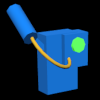
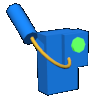
holding ball in both hands

diff --git a/js/antbob.js b/js/antbob.js
@@ -188,7 +188,7 @@ export default class AntBob {
 
 	updateInventorySlot(slot) {
 		if (this.story.hasInventoryItem(slot))
-			this.loadItem(this.story.state.inventory[slot]);
+			this.loadItem(slot, this.story.state.inventory[slot]);
 		else
 			this.unloadItem(slot);
 	}
@@ -268,10 +268,14 @@ export default class AntBob {
 		this.state.update(event);
 	}
 
+	hasItemInBothHands() {
+		return this.story.hasItemInBothHands();
+	}
+
 	dropItem(slot) {
 		const item = this.story.removeInventoryItem(slot);
 		if (item) {
-			const mesh = this.unloadItem(item.slot);
+			const mesh = this.unloadItem(slot);
 			const newMesh = mesh.clone();
 			const pos = this.dummy.position.clone();
 			pos.add(this.direction);
@@ -302,52 +306,48 @@ export default class AntBob {
 		}
 	}
 
-	loadItem(data) {
-		let slot = data.slot;
-
+	async loadItem(slot, data) {
 		this.unloadItem(slot);
+
+		if (!data) return;
 
 		const boneName = SLOT_BONES[slot];
 		const bone = this.model.getObjectByName(boneName);
 
-		//console.log(this.model);
-		this.resources.load(
-			data.model,
-			function (obj) {
-				let wrapper = null;
-				if (data.itemWrapper) {
-					let wrapperContent = obj.getObjectByName(data.itemWrapper);
-					if (!wrapperContent) return;
-					wrapperContent.parent.remove(wrapperContent);
-					wrapperContent.add(obj);
-					wrapper = new THREE.Group();
-					wrapper.add(wrapperContent);
-					bone.userData['realItemMesh'] = obj;
-				}
-				if (!wrapper) wrapper = obj;
-				bone.add( wrapper );
-				if (slot === 'leftHand') {
-					const quaternion = new THREE.Quaternion();
-					quaternion.setFromAxisAngle(Y_AXIS, Math.PI * -0.5);
-					wrapper.applyQuaternion(quaternion);
-				}
-				if (slot === 'rightHand') {
-					const quaternion = new THREE.Quaternion();
-					quaternion.setFromAxisAngle(Y_AXIS, Math.PI * -0.5);
-					wrapper.applyQuaternion(quaternion);
-				}
-				bone.userData['itemMesh'] = wrapper;
-			}
-		);
+		const resource = await this.resources.load(data.model);
+		const obj = resource.clone();
+
+		let wrapper = null;
+		if (data.itemWrapper) {
+			let wrapperContent = obj.getObjectByName(data.itemWrapper);
+			if (!wrapperContent) return;
+			wrapperContent.parent.remove(wrapperContent);
+			wrapperContent.add(obj);
+			obj.position.set(0,0,0);
+			wrapper = new THREE.Group();
+			wrapper.add(wrapperContent);
+			bone.userData['realItemMesh'] = obj;
+		}
+		if (!wrapper) wrapper = obj;
+
+		console.log(wrapper);
+
+		bone.add( wrapper );
+		if (slot === 'leftHand' || slot === 'rightHand') {
+			const quaternion = new THREE.Quaternion();
+			quaternion.setFromAxisAngle(Y_AXIS, Math.PI * -0.5);
+			wrapper.applyQuaternion(quaternion);
+		}
+		bone.userData['itemMesh'] = wrapper;
 	}
 
 	takeItem(data) {
 		let slot = data.slot;
-		const item = this.story.addInventoryItem(slot, data);
-		if (!item) return false;
+		slot = this.story.addInventoryItem(slot, data);
+		if (!slot) return false;
 
-		this.loadItem(item);
-		return item;
+		this.loadItem(slot, data);
+		return data;
 	}
 
 	setVehicle() {

diff --git a/js/story.js b/js/story.js
@@ -135,21 +135,28 @@ export default class StoryHelper {
 
 	 /* inventory */
 	hasInventoryItem(slot) {
+		if (slot === 'rightHand' && this.hasItemInBothHands('leftHand')) {
+			return true;
+		}
 		return (slot in this.state.inventory) && (this.state.inventory[slot] != null);
 	}
 
+	hasItemInBothHands() {
+		return (this.hasInventoryItem('leftHand') && this.state.inventory['leftHand'].slot === 'both');
+	}
+
 	addInventoryItem(slot, data) {
-		if (slot == 'hand') slot = this.hasInventoryItem('leftHand') ? 'rightHand' : 'leftHand';
+		if (slot === 'hand') slot = this.hasInventoryItem('leftHand') ? 'rightHand' : 'leftHand';
+		if (slot === 'both') slot = this.hasInventoryItem('rightHand') ? 'rightHand' : 'leftHand';
 
 		if (this.hasInventoryItem(slot)) {
 			return false;
 		}
 
-		data.slot = slot;
 		this.state.inventory[slot] = data;
 		this.save();
 		this.updateUIInventorySlot(slot);
-		return data;
+		return slot;
 	}
 
 	removeInventoryItem(slot) {

diff --git a/js/bobstate/StateWalking.js b/js/bobstate/StateWalking.js
@@ -19,7 +19,8 @@ const WALKING_ACCELERATION = 0.0045;
 
 export default class StateWalking extends BobState {
 	activate() {
-		this.antbob.animation.activateAction('WalkingHolding', ANIMATION_TRANSITION_DURATION * 2, false);
+		const animName = this.antbob.hasItemInBothHands() ? 'WalkingHolding' : 'Walking';
+		this.antbob.animation.activateAction(animName, ANIMATION_TRANSITION_DURATION * 2, false);
 		this.antbob.animation.speed = 1.2;
 		this.antbob.body.setFriction(FRICTION_MOVEMENT);
 		this.antbob.body.setRollingFriction(0);

diff --git a/js/bobstate/StateStanding.js b/js/bobstate/StateStanding.js
@@ -22,7 +22,8 @@ const IDLE_TIMEOUT = 3000;
 export default class StateStanding extends BobState {
 
 	activate() {
-		this.antbob.animation.activateAction('StandingHolding', ANIMATION_TRANSITION_DURATION * 0.5, false);
+		const animName = this.antbob.hasItemInBothHands() ? 'StandingHolding' : 'Stand';
+		this.antbob.animation.activateAction(animName, ANIMATION_TRANSITION_DURATION * 0.5, false);
 		this.idleTimeout = IDLE_TIMEOUT;
 		this.antbob.body.setFriction(FRICTION_STATIC);
 		this.antbob.body.setRollingFriction(10);

diff --git a/js/ui.js b/js/ui.js
@@ -165,6 +165,10 @@ export default class UI {
 	}
 
 	showInventoryItem(slot, data) {
+		if (!data) {
+			this.hideInventoryItem(slot);
+			return;
+		}
 		const element = this.inventorySlots[slot];
 		const portrait = 'portraits/' + data.portrait + '.png';
 		element.innerHTML = '<img src="' + portrait + '" />';

diff --git a/js/resources.js b/js/resources.js
@@ -14,7 +14,8 @@ export default class ResourcesHelper {
 	}
 
 	async loadAndAdd(node, res) {
-		const obj = await this.load(res);
+		const resource = await this.load(res);
+		const obj = resource.clone();
 		node.add(obj);
 		this.userdata.extractUserData(obj);
 	}

diff --git a/README.md b/README.md
@@ -97,6 +97,22 @@ Soft body:
 }
 ```
 
+Items:
+
+```json
+{
+  "interaction": {
+    "name": "Backpack",
+    "interact": {
+      "type": "item",
+      "slot": "backpack",
+      "portrait": "backpack",
+      "model": "backpack"
+    }
+  }
+}
+```
+
 ### Editor scripts
 
 Spot light:
